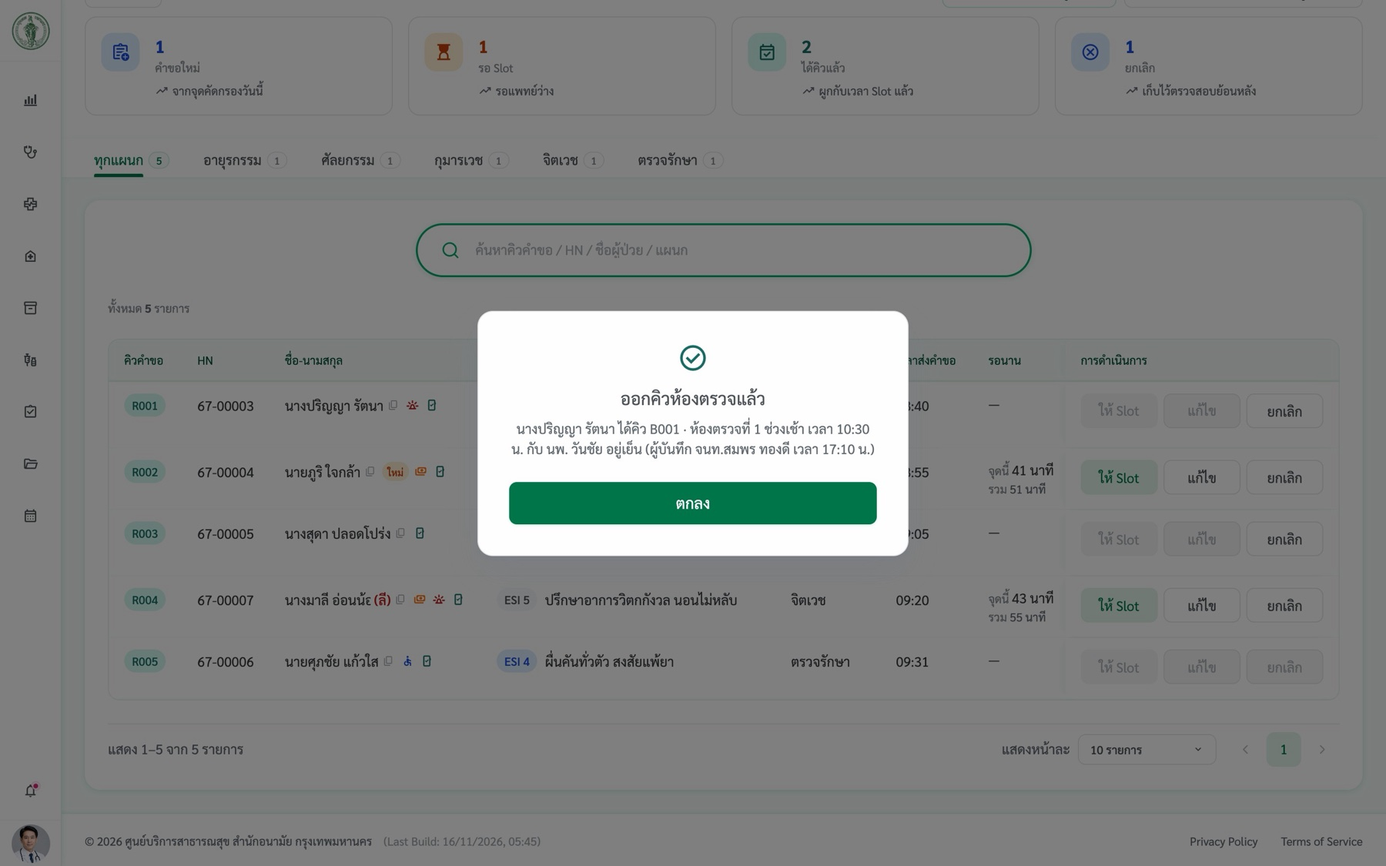
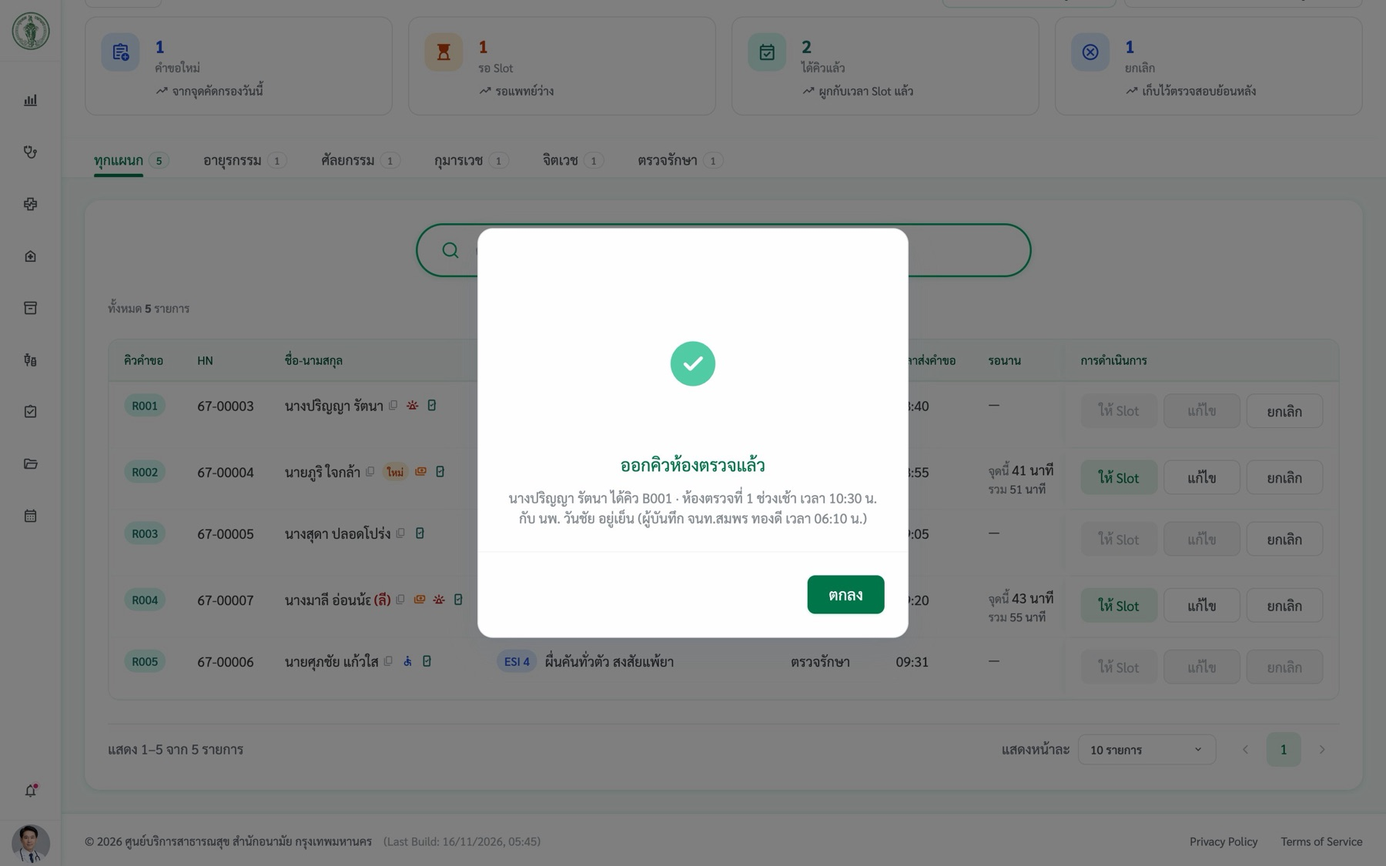
OPD (คทง.1) ออกคิว Walk-in: ภาพก่อนกดยืนยัน + Success popup "ออกคิวห้องตรวจแล้ว" (17 พ.ย. 69)

Changed region(s): [[0.3422, 0.2489, 0.6533, 0.7467]]

diff --git a/tor-k9-addiction.html b/tor-k9-addiction.html
@@ -1080,7 +1080,7 @@
   <div class="card" id="osc-8"><div class="head"><div><h2>§5.1 · 1.2.1.3 · คัดกรอง Walk-in และส่งต่อแผนก (REQ-PHC1.2-03)</h2><p class="sum">ภาพในเอกสาร 2 ภาพ</p></div><span class="chip nw c-orange">แก้เล็กน้อย</span></div><hr><p class="gh">ข้อความต้นฉบับ (SDD)</p><blockquote>๑.๒.๑.๓ สามารถบันทึกข้อมูลคัดกรองผู้รับบริการ Walk-in และส่งเลือกส่งต่อไปยังแผนก</blockquote><hr><p class="gh">ภาพในเอกสาร</p><div class="shots"><figure class="v-part"><img src="tor-shots/opd-sdd-shots-2569-11-16/doc/image132.jpg" alt="ภาพในเอกสาร image132: แท็บลงทะเบียนแล้ว · Walk-in สถานะ &quot;ลงทะเบียนสำเร็จ และรอซักประวัติ&quot; · ไม่เห็นการบันทึกข้อมูลคัดกรอง" loading="lazy"><figcaption><span class="chip nw c-orange">ตรงบางส่วน</span> <span class="fn">image132</span> · แท็บลงทะเบียนแล้ว · Walk-in สถานะ &quot;ลงทะเบียนสำเร็จ และรอซักประวัติ&quot; · ไม่เห็นการบันทึกข้อมูลคัดกรอง</figcaption></figure><figure class="v-ok"><img src="tor-shots/opd-sdd-shots-2569-11-16/doc/image131.jpg" alt="ภาพในเอกสาร image131: ป๊อปอัป &quot;ส่งไปยัง&quot; · เลือกแผนก/คลินิกภายในศูนย์ · ปุ่ม &quot;ส่งไปยัง&quot;" loading="lazy"><figcaption><span class="chip nw c-green">ตรง</span> <span class="fn">image131</span> · ป๊อปอัป &quot;ส่งไปยัง&quot; · เลือกแผนก/คลินิกภายในศูนย์ · ปุ่ม &quot;ส่งไปยัง&quot;</figcaption></figure></div><hr><p class="gh">ต้องแก้</p><p>เพิ่มภาพหน้าบันทึกคัดกรองของผู้ป่วย Walk-in (/opd/queue → เปิดแถว Walk-in → ฟอร์มคัดกรอง) ก่อนภาพส่งต่อ · ข้อความ TOR มีคำเกิน &quot;ส่งเลือกส่งต่อ&quot; คงตามต้นฉบับ</p></div>
   <div class="card" id="osc-9"><div class="head"><div><h2>§5.1 · 1.2.1.4 · ดู Request Walk-in รายแผนก (REQ-PHC1.2-04)</h2><p class="sum">ภาพในเอกสาร 1 ภาพ</p></div><span class="chip nw c-orange">แก้เล็กน้อย</span></div><hr><p class="gh">ข้อความต้นฉบับ (SDD)</p><blockquote>๑.๒.๑.๔ สามารถดูรายการ Request Walk-in ของแต่ละแผนกได้</blockquote><hr><p class="gh">ภาพในเอกสาร</p><div class="shots"><figure class="v-part"><img src="tor-shots/opd-sdd-shots-2569-11-16/doc/image100.jpg" alt="ภาพในเอกสาร image100: รับนัดหมาย แท็บคำขอทั้งหมด · ช่องทาง Walk-in + ตัวกรองคลินิก · แต่ dropdown คลินิกเปิดบังชื่อหน้าและการ์ดสรุป" loading="lazy"><figcaption><span class="chip nw c-orange">ตรงบางส่วน</span> <span class="fn">image100</span> · รับนัดหมาย แท็บคำขอทั้งหมด · ช่องทาง Walk-in + ตัวกรองคลินิก · แต่ dropdown คลินิกเปิดบังชื่อหน้าและการ์ดสรุป</figcaption></figure></div><hr><p class="gh">ต้องแก้</p><p>ถ่ายใหม่ให้ dropdown ปิด (เลือกคลินิกแล้ว) เห็นชื่อหน้า &quot;รับนัดหมาย&quot; + รายการคำขอ Walk-in ของแผนกที่เลือก · แทนด้วยภาพที่ควรใช้</p><hr><p class="gh">ภาพที่ควรใช้ (ถ่ายจากระบบจริง 16 พ.ย. 2569 · 1440px)</p><div class="shots"><figure class="v-fix"><img src="tor-shots/opd-sdd-shots-2569-11-16/fix/r04-1-requests.jpg" alt="ภาพที่ควรใช้: รายการคำขอ Walk-in ทุกแผนก · แท็บแยกแผนก" loading="lazy"><figcaption><span class="chip nw c-blue">ภาพที่ควรใช้</span> รายการคำขอ Walk-in ทุกแผนก · แท็บแยกแผนก</figcaption></figure></div><hr><p class="gh">วิธีกดดู</p><p>บทบาทพยาบาล · /opd/requests (OPD › คำขอ Walk-in ตามแผนก) · แท็บแผนก</p></div>
   <div class="card" id="osc-10"><div class="head"><div><h2>§5.1 · 1.2.1.5 · จัดการ Request Walk-in ด้วย Slot ว่างของแพทย์ (REQ-PHC1.2-05)</h2><p class="sum">ภาพในเอกสาร 2 ภาพ</p></div><span class="chip nw c-orange">แก้เล็กน้อย</span></div><hr><p class="gh">ข้อความต้นฉบับ (SDD)</p><blockquote>๑.๒.๑.๕ สามารถจัดการ Request Walk-in โดยการให้ Slot ที่ว่างของแพทย์ได้</blockquote><hr><p class="gh">ภาพในเอกสาร</p><div class="shots"><figure class="v-part"><img src="tor-shots/opd-sdd-shots-2569-11-16/doc/image86.jpg" alt="ภาพในเอกสาร image86: หน้าตั้งค่าระบบนัดหมาย · ค้นหา Slot ว่างเร็วสุด · ไม่ได้ผูกกับคำขอ Walk-in · มีข้อความนักพัฒนา &quot;แผงนี้คือ AppointmentSettingsPanel…&quot; ให้เห็น" loading="lazy"><figcaption><span class="chip nw c-orange">ตรงบางส่วน</span> <span class="fn">image86</span> · หน้าตั้งค่าระบบนัดหมาย · ค้นหา Slot ว่างเร็วสุด · ไม่ได้ผูกกับคำขอ Walk-in · มีข้อความนักพัฒนา &quot;แผงนี้คือ AppointmentSettingsPanel…&quot; ให้เห็น</figcaption></figure><figure class="v-part"><img src="tor-shots/opd-sdd-shots-2569-11-16/doc/image87.jpg" alt="ภาพในเอกสาร image87: ป๊อปอัป Slot ว่างเร็วสุด · พบ Slot แพทย์ · ไม่เห็นว่าเป็นคำขอ Walk-in รายใด" loading="lazy"><figcaption><span class="chip nw c-orange">ตรงบางส่วน</span> <span class="fn">image87</span> · ป๊อปอัป Slot ว่างเร็วสุด · พบ Slot แพทย์ · ไม่เห็นว่าเป็นคำขอ Walk-in รายใด</figcaption></figure></div><hr><p class="gh">ต้องแก้</p><p>เปลี่ยนเป็นภาพจัดการคำขอ Walk-in จริง · ตัด image86 (มีข้อความนักพัฒนา) · แทนด้วยภาพที่ควรใช้</p><hr><p class="gh">ภาพที่ควรใช้ (ถ่ายจากระบบจริง 16 พ.ย. 2569 · 1440px)</p><div class="shots"><figure class="v-fix"><img src="tor-shots/opd-sdd-shots-2569-11-16/fix/r05-1-slot-popup.jpg" alt="ภาพที่ควรใช้: ป๊อปอัป &quot;ให้ Slot ห้องตรวจ&quot; · โควตาแผนก · เลือกเวลาว่างของแพทย์" loading="lazy"><figcaption><span class="chip nw c-blue">ภาพที่ควรใช้</span> ป๊อปอัป &quot;ให้ Slot ห้องตรวจ&quot; · โควตาแผนก · เลือกเวลาว่างของแพทย์</figcaption></figure></div><hr><p class="gh">วิธีกดดู</p><p>/opd/requests · แถว R001 · ปุ่ม &quot;ให้ Slot&quot; · เลือก 10:30</p></div>
-  <div class="card tor-conflict" id="osc-11"><div class="head"><div><h2>§5.1 · 1.2.1.6 · ออกคิวตรวจตาม Slot เวลา (REQ-PHC1.2-06)</h2><p class="sum">ภาพในเอกสาร 3 ภาพ</p></div><span class="chip nw c-red">ต้องแก้</span></div><hr><p class="gh">ข้อความต้นฉบับ (SDD)</p><blockquote>๑.๒.๑.๖ สามารถออกคิวตรวจให้ตาม Slot เวลาได้</blockquote><hr><p class="gh">ภาพในเอกสาร</p><div class="shots"><figure class="v-del"><img src="tor-shots/opd-sdd-shots-2569-11-16/doc/image90.jpg" alt="ภาพในเอกสาร image90: หน้าตั้งค่าเดียวกับ image86 (ซ้ำ) + toast พบ Slot · มีข้อความนักพัฒนา" loading="lazy"><figcaption><span class="chip nw c-red">ควรลบ</span> <span class="fn">image90</span> · หน้าตั้งค่าเดียวกับ image86 (ซ้ำ) + toast พบ Slot · มีข้อความนักพัฒนา</figcaption></figure><figure class="v-part"><img src="tor-shots/opd-sdd-shots-2569-11-16/doc/image99.jpg" alt="ภาพในเอกสาร image99: ป๊อปอัปนัดหมาย · ตาราง Slot 5 นาที เลือก 08:10–08:15 · ยังไม่เห็นเลขคิวที่ออก" loading="lazy"><figcaption><span class="chip nw c-orange">ตรงบางส่วน</span> <span class="fn">image99</span> · ป๊อปอัปนัดหมาย · ตาราง Slot 5 นาที เลือก 08:10–08:15 · ยังไม่เห็นเลขคิวที่ออก</figcaption></figure><figure class="v-bad"><img src="tor-shots/opd-sdd-shots-2569-11-16/doc/image94.jpg" alt="ภาพในเอกสาร image94: ป๊อปอัปถามพิมพ์ใบนัดหมาย · ไม่ใช่การออกคิวตาม Slot" loading="lazy"><figcaption><span class="chip nw c-red">ไม่ตรง</span> <span class="fn">image94</span> · ป๊อปอัปถามพิมพ์ใบนัดหมาย · ไม่ใช่การออกคิวตาม Slot</figcaption></figure></div><hr><p class="gh">ต้องแก้</p><p>ลบ image90 · เปลี่ยน image94 เป็นภาพผลหลังบันทึกที่เห็นเลขคิวตาม Slot · แทนด้วยภาพที่ควรใช้</p><hr><p class="gh">ภาพที่ควรใช้ (ถ่ายจากระบบจริง 16 พ.ย. 2569 · 1440px)</p><div class="shots"><figure class="v-fix"><img src="tor-shots/opd-sdd-shots-2569-11-16/fix/r06-1-queue-issued.jpg" alt="ภาพที่ควรใช้: &quot;ออกคิวห้องตรวจแล้ว&quot; ได้คิว B001 ห้องตรวจที่ 1 เวลา 10:30 กับแพทย์ที่เลือก" loading="lazy"><figcaption><span class="chip nw c-blue">ภาพที่ควรใช้</span> &quot;ออกคิวห้องตรวจแล้ว&quot; ได้คิว B001 ห้องตรวจที่ 1 เวลา 10:30 กับแพทย์ที่เลือก</figcaption></figure></div><hr><p class="gh">วิธีกดดู</p><p>/opd/requests · ให้ Slot · กด &quot;ยืนยันคิวเวลา 10:30 น.&quot;</p></div>
+  <div class="card tor-conflict" id="osc-11"><div class="head"><div><h2>§5.1 · 1.2.1.6 · ออกคิวตรวจตาม Slot เวลา (REQ-PHC1.2-06)</h2><p class="sum">ภาพในเอกสาร 3 ภาพ</p></div><span class="chip nw c-red">ต้องแก้</span></div><hr><p class="gh">ข้อความต้นฉบับ (SDD)</p><blockquote>๑.๒.๑.๖ สามารถออกคิวตรวจให้ตาม Slot เวลาได้</blockquote><hr><p class="gh">ภาพในเอกสาร</p><div class="shots"><figure class="v-del"><img src="tor-shots/opd-sdd-shots-2569-11-16/doc/image90.jpg" alt="ภาพในเอกสาร image90: หน้าตั้งค่าเดียวกับ image86 (ซ้ำ) + toast พบ Slot · มีข้อความนักพัฒนา" loading="lazy"><figcaption><span class="chip nw c-red">ควรลบ</span> <span class="fn">image90</span> · หน้าตั้งค่าเดียวกับ image86 (ซ้ำ) + toast พบ Slot · มีข้อความนักพัฒนา</figcaption></figure><figure class="v-part"><img src="tor-shots/opd-sdd-shots-2569-11-16/doc/image99.jpg" alt="ภาพในเอกสาร image99: ป๊อปอัปนัดหมาย · ตาราง Slot 5 นาที เลือก 08:10–08:15 · ยังไม่เห็นเลขคิวที่ออก" loading="lazy"><figcaption><span class="chip nw c-orange">ตรงบางส่วน</span> <span class="fn">image99</span> · ป๊อปอัปนัดหมาย · ตาราง Slot 5 นาที เลือก 08:10–08:15 · ยังไม่เห็นเลขคิวที่ออก</figcaption></figure><figure class="v-bad"><img src="tor-shots/opd-sdd-shots-2569-11-16/doc/image94.jpg" alt="ภาพในเอกสาร image94: ป๊อปอัปถามพิมพ์ใบนัดหมาย · ไม่ใช่การออกคิวตาม Slot" loading="lazy"><figcaption><span class="chip nw c-red">ไม่ตรง</span> <span class="fn">image94</span> · ป๊อปอัปถามพิมพ์ใบนัดหมาย · ไม่ใช่การออกคิวตาม Slot</figcaption></figure></div><hr><p class="gh">ต้องแก้</p><p>ลบ image90 · เปลี่ยน image94 เป็นภาพผลหลังบันทึกที่เห็นเลขคิวตาม Slot · แทนด้วยภาพที่ควรใช้</p><hr><p class="gh">ภาพที่ควรใช้ (ถ่ายจากระบบจริง 16 พ.ย. 2569 · 1440px)</p><div class="shots"><figure class="v-fix"><img src="tor-shots/opd-sdd-shots-2569-11-16/fix/r06-0-before-confirm.jpg?v=20261117" alt="ภาพที่ควรใช้: ก่อนกดยืนยัน ป๊อปอัปให้ Slot เลือก 10:30" loading="lazy"><figcaption><span class="chip nw c-blue">ภาพที่ควรใช้</span> ก่อนกดยืนยัน · ป๊อปอัป &quot;ให้ Slot ห้องตรวจ&quot; เลือก 10:30 ห้องตรวจที่ 1 → กด &quot;ยืนยันคิวเวลา 10:30 น.&quot;</figcaption></figure><figure class="v-fix"><img src="tor-shots/opd-sdd-shots-2569-11-16/fix/r06-1-queue-issued.jpg?v=20261117" alt="ภาพที่ควรใช้: ออกคิวห้องตรวจแล้ว ได้คิว B001" loading="lazy"><figcaption><span class="chip nw c-blue">ภาพที่ควรใช้</span> หลังกดยืนยัน · Success popup &quot;ออกคิวห้องตรวจแล้ว&quot; ได้คิว B001 ห้องตรวจที่ 1 เวลา 10:30 กับแพทย์ที่เลือก (17 พ.ย. 2569)</figcaption></figure></div><hr><p class="gh">วิธีกดดู</p><p>/opd/requests · ให้ Slot · กด &quot;ยืนยันคิวเวลา 10:30 น.&quot;</p></div>
   <div class="card" id="osc-12"><div class="head"><div><h2>§5.1 · 1.2.1.7 · แสดงสถานะผู้มีนัด มา/ไม่มาตามนัด (REQ-PHC1.2-07)</h2><p class="sum">ภาพในเอกสาร 1 ภาพ</p></div><span class="chip nw c-orange">แก้เล็กน้อย</span></div><hr><p class="gh">ข้อความต้นฉบับ (SDD)</p><blockquote>๑.๒.๑.๗ สามารถแสดงสถานะของผู้รับบริการนัดหมายที่มาลงทะเบียนได้ เช่น ผู้รับบริการมาตามนัด ผ…</blockquote><hr><p class="gh">ภาพในเอกสาร</p><div class="shots"><figure class="v-part"><img src="tor-shots/opd-sdd-shots-2569-11-16/doc/image96.jpg" alt="ภาพในเอกสาร image96: ระบบนัดหมาย แท็บนัดหมายที่ยกเลิก/ไม่มาตามนัด (กรอบแดง) · ตารางไม่มีคอลัมน์สถานะมา/ไม่มาตามนัด" loading="lazy"><figcaption><span class="chip nw c-orange">ตรงบางส่วน</span> <span class="fn">image96</span> · ระบบนัดหมาย แท็บนัดหมายที่ยกเลิก/ไม่มาตามนัด (กรอบแดง) · ตารางไม่มีคอลัมน์สถานะมา/ไม่มาตามนัด</figcaption></figure></div><hr><p class="gh">ต้องแก้</p><p>ข้อความ TOR ถูกตัดที่ &quot;ผ&quot; · เติมให้ครบจากต้นฉบับ · เปลี่ยนภาพเป็นหน้าที่เห็นสถานะต่อราย · แทนด้วยภาพที่ควรใช้</p><hr><p class="gh">ภาพที่ควรใช้ (ถ่ายจากระบบจริง 16 พ.ย. 2569 · 1440px)</p><div class="shots"><figure class="v-fix"><img src="tor-shots/opd-sdd-shots-2569-11-16/fix/r07-1-reg-queue.jpg" alt="ภาพที่ควรใช้: หน้าเวชระเบียน: ยอดนัดหมายวันนี้ / เหลือรอ · แท็บ &quot;ไม่มาตามนัด&quot;" loading="lazy"><figcaption><span class="chip nw c-blue">ภาพที่ควรใช้</span> หน้าเวชระเบียน: ยอดนัดหมายวันนี้ / เหลือรอ · แท็บ &quot;ไม่มาตามนัด&quot;</figcaption></figure><figure class="v-fix"><img src="tor-shots/opd-sdd-shots-2569-11-16/fix/r07-2-missed.jpg" alt="ภาพที่ควรใช้: แท็บ &quot;ไม่มาตามนัด&quot; รายชื่อผู้มีนัดที่ยังไม่มา" loading="lazy"><figcaption><span class="chip nw c-blue">ภาพที่ควรใช้</span> แท็บ &quot;ไม่มาตามนัด&quot; รายชื่อผู้มีนัดที่ยังไม่มา</figcaption></figure></div><hr><p class="gh">วิธีกดดู</p><p>บทบาทเวชระเบียน · /registration/queue · การ์ด &quot;นัดหมายวันนี้&quot; · แท็บ &quot;ไม่มาตามนัด&quot;</p></div>
   <div class="card" id="osc-13"><div class="head"><div><h2>§5.1 · 1.2.2.1 · บันทึกข้อมูลคัดกรอง (REQ-PHC1.2-08)</h2><p class="sum">ภาพในเอกสาร 5 ภาพ</p></div><span class="chip nw c-orange">แก้เล็กน้อย</span></div><hr><p class="gh">ข้อความต้นฉบับ (SDD)</p><blockquote>๑.๒.๒.๑ สามารถบันทึกข้อมูลการคัดกรอง เช่น วิธีการมาสถานพยาบาล รูปแบบการเข้ารับบริการ สัญญาณชีพ น้ำหนัก ส่วนสูง Pain Score ระดับ ESI อาการนำ ข้อมูลการแพ้ยาและโรคประจำตัว ความต้องการใบรับรองแพทย์ เป็นต้น</blockquote><hr><p class="gh">ภาพในเอกสาร</p><div class="shots"><figure class="v-part"><img src="tor-shots/opd-sdd-shots-2569-11-16/doc/image92.jpg" alt="ภาพในเอกสาร image92: หน้าคิวคัดกรอง ตัวกรองประเภท นัดหมาย/Walk-in · เป็นตัวกรองรายการ ไม่ใช่ช่องบันทึกรูปแบบการเข้ารับบริการ" loading="lazy"><figcaption><span class="chip nw c-orange">ตรงบางส่วน</span> <span class="fn">image92</span> · หน้าคิวคัดกรอง ตัวกรองประเภท นัดหมาย/Walk-in · เป็นตัวกรองรายการ ไม่ใช่ช่องบันทึกรูปแบบการเข้ารับบริการ</figcaption></figure><figure class="v-ok"><img src="tor-shots/opd-sdd-shots-2569-11-16/doc/image107.jpg" alt="ภาพในเอกสาร image107: ขั้นสัญญาณชีพ ช่อง Temp/PR/BP/RR/SpO2/CBG/ส่วนสูง/น้ำหนัก · ไม่มีกรอบแดงชี้" loading="lazy"><figcaption><span class="chip nw c-green">ตรง</span> <span class="fn">image107</span> · ขั้นสัญญาณชีพ ช่อง Temp/PR/BP/RR/SpO2/CBG/ส่วนสูง/น้ำหนัก · ไม่มีกรอบแดงชี้</figcaption></figure><figure class="v-ok"><img src="tor-shots/opd-sdd-shots-2569-11-16/doc/image95.jpg" alt="ภาพในเอกสาร image95: ความเร่งด่วน 3 ระดับ + Fast Track (แทน ESI) · กรอบแดงชัด" loading="lazy"><figcaption><span class="chip nw c-green">ตรง</span> <span class="fn">image95</span> · ความเร่งด่วน 3 ระดับ + Fast Track (แทน ESI) · กรอบแดงชัด</figcaption></figure><figure class="v-ok"><img src="tor-shots/opd-sdd-shots-2569-11-16/doc/image14.jpg" alt="ภาพในเอกสาร image14: ซักประวัติ มีการแพ้ยา + มีโรคประจำตัว · กรอบแดงชัด" loading="lazy"><figcaption><span class="chip nw c-green">ตรง</span> <span class="fn">image14</span> · ซักประวัติ มีการแพ้ยา + มีโรคประจำตัว · กรอบแดงชัด</figcaption></figure><figure class="v-ok"><img src="tor-shots/opd-sdd-shots-2569-11-16/doc/image31.jpg" alt="ภาพในเอกสาร image31: ใบรับรองแพทย์ ต้องการ/ไม่ต้องการ · กรอบแดงชัด" loading="lazy"><figcaption><span class="chip nw c-green">ตรง</span> <span class="fn">image31</span> · ใบรับรองแพทย์ ต้องการ/ไม่ต้องการ · กรอบแดงชัด</figcaption></figure></div><hr><p class="gh">ต้องแก้</p><p>ยังไม่มีภาพวิธีการมาสถานพยาบาล · Pain Score · อาการนำ · ช่องรูปแบบการเข้ารับบริการในฟอร์ม → เพิ่มภาพขั้นซักประวัติส่วนบน · image92 ย้ายไปข้อ REQ-PHC1.2-15/19 หรือเปลี่ยนคำอธิบายว่าเป็นตัวกรอง · image107 ใส่กรอบแดง · มีภาพที่ตรงแล้ว ไม่ต้องถ่ายเพิ่ม</p></div>
   <div class="card" id="osc-14"><div class="head"><div><h2>§5.1 · 1.2.2.2 · บันทึกการคัดกรองซ้ำ (REQ-PHC1.2-09)</h2><p class="sum">ภาพในเอกสาร 2 ภาพ</p></div><span class="chip nw c-orange">แก้เล็กน้อย</span></div><hr><p class="gh">ข้อความต้นฉบับ (SDD)</p><blockquote>๑.๒.๒.๒ สามารถบันทึกการคัดกรองซ้ำได้</blockquote><hr><p class="gh">ภาพในเอกสาร</p><div class="shots"><figure class="v-part"><img src="tor-shots/opd-sdd-shots-2569-11-16/doc/image22.jpg" alt="ภาพในเอกสาร image22: แท็บคัดกรองแล้ว + ป๊อปอัปยืนยันรับผู้ป่วย · เป็นขั้นก่อนเปิดฟอร์ม ยังไม่เห็นการคัดกรองซ้ำ" loading="lazy"><figcaption><span class="chip nw c-orange">ตรงบางส่วน</span> <span class="fn">image22</span> · แท็บคัดกรองแล้ว + ป๊อปอัปยืนยันรับผู้ป่วย · เป็นขั้นก่อนเปิดฟอร์ม ยังไม่เห็นการคัดกรองซ้ำ</figcaption></figure><figure class="v-ok"><img src="tor-shots/opd-sdd-shots-2569-11-16/doc/image21.jpg" alt="ภาพในเอกสาร image21: ป๊อปอัป ผู้ป่วยรายนี้คัดกรองแล้ว · ปุ่ม คัดกรองซ้ำ (รอบใหม่) · กรอบแดงชัด" loading="lazy"><figcaption><span class="chip nw c-green">ตรง</span> <span class="fn">image21</span> · ป๊อปอัป ผู้ป่วยรายนี้คัดกรองแล้ว · ปุ่ม คัดกรองซ้ำ (รอบใหม่) · กรอบแดงชัด</figcaption></figure></div><hr><p class="gh">ต้องแก้</p><p>เพิ่มภาพผลหลังกด (แถบ ประวัติรอบคัดกรอง กำลังคัดกรองรอบที่ 2 = image1) หรืออ้าง image1 · image22 คงไว้เป็นขั้นที่ 1 ได้</p></div>
